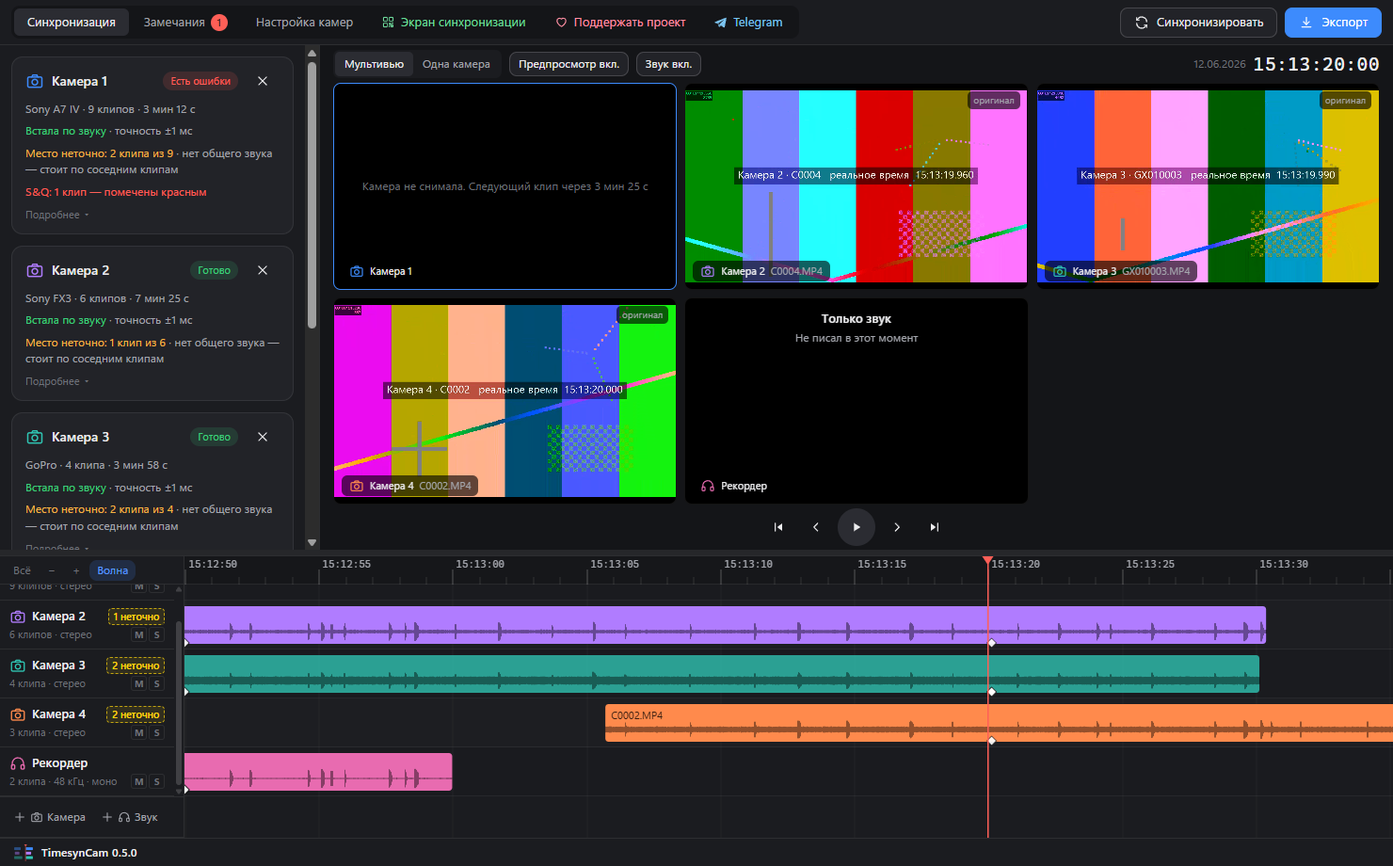
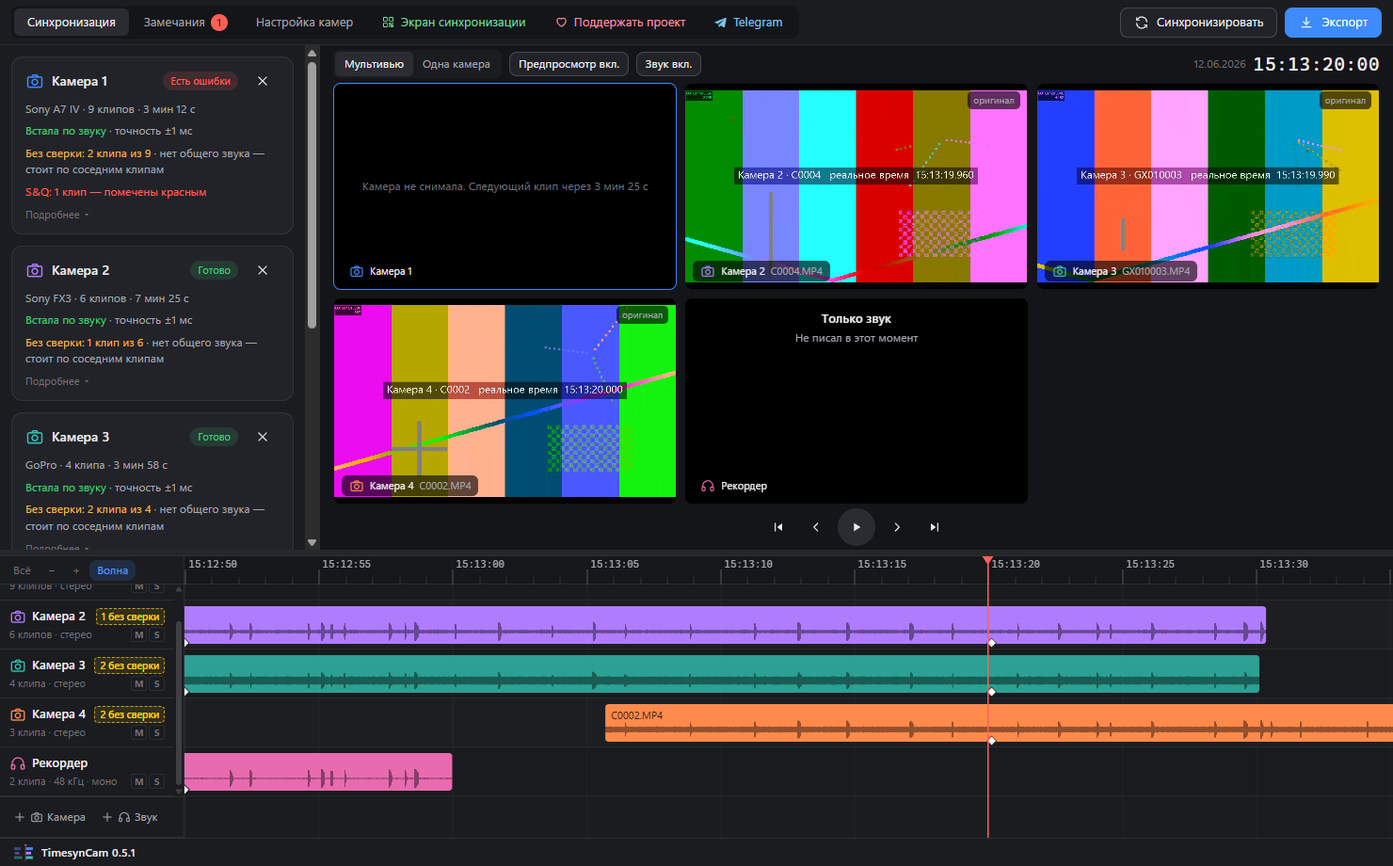
TimesynCam 0.5.1: «без сверки» вместо «неточно», короткие записи со слабым звуком, разложение камер по дорожкам
- Пометка клипов, чьё место звук не подтвердил: «N без сверки» у дорожки, «Без сверки: N из M» в карточке,
  в подсказке — что такие клипы обычно стоят верно; клип, сверенный хуже кадра, — «Сверен хуже кадра».
- Версия 0.5.1: CHANGELOG, текст релиза, README (кнопка macOS до сборки dmg — на релиз 0.5.0), новые снимки.

В выпуск также входят: окно «разложить по дорожкам» (986aeef), подсказка про контрольный кадр один раз (986aeef),
голосование коротких окон и время суток без часов-одиночки (40d9cb6).

diff --git a/src/renderer/components/Timeline.tsx b/src/renderer/components/Timeline.tsx
@@ -11,7 +11,7 @@ import { isMac } from '../platform.ts';
 import { WAVE_RATE } from '../../core/audioSync.ts';
 import { driftJobs } from '../../core/driftExport.ts';
 import type { DriftJob } from '../../core/driftExport.ts';
-import { UNSURE_TEXT, unsureDetails, unsureOf } from '../../core/unsure.ts';
+import { unsureDetails, unsureNote, unsureOf } from '../../core/unsure.ts';
 
 const RULER_H = 30;
 const EDGE_PX = 24; // поле до начала и после конца съёмки
@@ -156,7 +156,7 @@ export function Timeline() {
   }, []);
 
   const errorClips = useMemo(() => new Set(issues.filter((i) => i.severity === 'error' && i.clipId).map((i) => i.clipId!)), [issues]);
-  // Клипы с неточным местом: звук его не подтвердил или подтвердил хуже кадра — обведены пунктиром.
+  // Клипы без сверки: звук не подтвердил их место или подтвердил хуже кадра — обведены пунктиром.
   const unsureClips = useMemo(() => (synced ? state.audio?.unsure ?? {} : {}), [synced, state.audio]);
   const unsureByCam = useMemo(() => new Map(state.cameras.map((c) => [c.id, synced ? unsureOf(c, state.audio) : unsureOf(c, null)])), [state.cameras, state.audio, synced]);
   const speedClips = useMemo(() => new Set(state.cameras.flatMap((c) => c.clips.filter((x) => x.captureFps !== null).map((x) => x.id))), [state.cameras]);
@@ -320,7 +320,7 @@ export function Timeline() {
           g.lineWidth = 2;
           g.stroke();
         } else if (unsureClips[p.clipId] && !isSpeed && w > 3) {
-          // Неточное место — пунктир: тёмная подложка и светлая штриховка видны на клипе любого цвета.
+          // Без сверки — пунктир: тёмная подложка и светлая штриховка видны на клипе любого цвета.
           g.save();
           g.lineWidth = 2;
           g.strokeStyle = 'rgba(0,0,0,0.55)';
@@ -437,7 +437,7 @@ export function Timeline() {
     }
   }, [size, viewH, vp, extent, rows, placements, synced, state.playhead, state.selectedClipId, state.audio, state.controlFrames, state.controlIssues, errorClips, unsureClips, speedClips, driftClips, tz, showWaves, waveVersion]);
 
-  // К следующему неточному клипу дорожки: выделить, поставить курсор на начало и показать, если он за краем.
+  // К следующему клипу дорожки без сверки: выделить, поставить курсор на начало и показать, если он за краем.
   const nextUnsure = (cameraId: string) => {
     const ids = new Set(unsureByCam.get(cameraId)?.ids ?? []);
     const list = placements.filter((p) => p.cameraId === cameraId && ids.has(p.clipId)).sort((a, b) => a.start - b.start);
@@ -667,10 +667,10 @@ export function Timeline() {
                 return (
                   <button
                     className="tl-unsure"
-                    title={`Место неточно — ${pluralRu(u.ids.length, 'клип', 'клипа', 'клипов')} (на дорожке обведены пунктиром):\n${unsureDetails(u)}\n\nЩелчок — к следующему такому клипу.`}
+                    title={`Без сверки по звуку — ${pluralRu(u.ids.length, 'клип', 'клипа', 'клипов')} (на дорожке обведены пунктиром). Обычно они стоят верно, по тайм-коду и часам, но звук этого не подтвердил:\n${unsureDetails(u)}\n\nЩелчок — к следующему такому клипу.`}
                     onClick={(e) => { e.stopPropagation(); nextUnsure(r.cam.id); }}
                   >
-                    {u.ids.length} неточно
+                    {u.ids.length} без сверки
                   </button>
                 );
               })()}
@@ -742,7 +742,7 @@ export function Timeline() {
           return (
             <div className="ctx-menu" style={{ left: menu.x, top: menu.y }} role="menu" onMouseDown={(e) => e.stopPropagation()}>
               <div className="ctx-title">{clip.name}</div>
-              {unsureClips[clip.id] && <div className="ctx-note">Место неточно: {UNSURE_TEXT[unsureClips[clip.id]]}</div>}
+              {unsureClips[clip.id] && <div className="ctx-note">{unsureNote(unsureClips[clip.id])}</div>}
               <button role="menuitem" className="ctx-item" onClick={() => { markControl(menu.cameraId, menu.clipId, menu.localSec); setMenu(null); }}>
                 {state.controlFrames[clip.id] ? 'Перенести контрольный кадр сюда' : 'Выбрать контрольным кадром'}
                 <span className="ctx-hint">здесь в кадре экран синхронизации</span>

diff --git a/src/renderer/components/FaqPage.tsx b/src/renderer/components/FaqPage.tsx
@@ -59,7 +59,7 @@ export function FaqPage() {
             <li><b>Точки зацепки.</b> Там, где клипы двух камер идут одновременно, программа сравнивает звук и находит сдвиг. Первая точка задаёт поправку для своего клипа и всех следующих. Следующая точка сверяет кадр: если расходится больше чем на пару кадров, поправка меняется с её клипа и дальше, а предыдущие клипы остаются как были.</li>
             <li><b>Камеры без тайм-кода</b> (GoPro, телефоны) у каждого клипа ошибаются по-своему, поэтому каждый клип с общим звуком получает свою поправку.</li>
             <li><b>Камера со сбитыми часами.</b> Если рядом по времени общего звука нет, программа ищет звук камеры по всей записи других камер — так находятся камеры с неверным часовым поясом или часами, ушедшими на минуты.</li>
-            <li><b>Неточные клипы</b> обведены жёлтым пунктиром, у дорожки — их число: звук не подтвердил место клипа (нет общего звука, звук не нашёл место) или подтвердил хуже кадра. Щелчок по числу ведёт к следующему, причина — в меню клипа.</li>
+            <li><b>Клипы без сверки</b> обведены жёлтым пунктиром, у дорожки — их число: звук не подтвердил место клипа (нет общего звука, звук не нашёл место) или подтвердил хуже кадра. Обычно такие клипы стоят верно — по тайм-коду и часам, — но программа это не проверила. Щелчок по числу ведёт к следующему, причина — в меню клипа.</li>
             <li><b>Камеры с точным тайм-кодом</b> по звуку не сдвигаются — только сверяются. Расхождение обычно означает, что камеры стояли далеко: звук идёт около 340 м/с.</li>
             <li><b>Рекордер.</b> Длинная запись сверяется в нескольких местах — примерно раз в 10 минут. Не сопоставилось — программа пробует следующее место; хватает и одного видеофайла с хорошим совпадением. Часы рекордера за час штатно расходятся с камерами на десятые доли секунды — это учитывается как допуск, а не как ошибка, и запись встаёт по своей середине.</li>
           </ul>

diff --git a/src/core/unsure.ts b/src/core/unsure.ts
@@ -1,5 +1,6 @@
-// Клипы, чьё место неточно: звук его не подтвердил или подтвердил с точностью хуже кадра.
-// На таймлинии они обведены пунктиром, на дорожке и в карточке — их число.
+// Клипы без сверки: звук не подтвердил их место или подтвердил с точностью хуже кадра. Обычно они стоят верно —
+// по тайм-коду и часам, — но программа это не проверила. На таймлинии они обведены пунктиром, на дорожке и в карточке —
+// их число.
 import type { AudioSyncResult, UnsureReason } from './audioSync.ts';
 import type { Camera } from './types.ts';
 import { pluralRu } from './format.ts';
@@ -27,6 +28,11 @@ export function unsureOf(cam: Camera, audio: AudioSyncResult | null | undefined)
   const counts = new Map<UnsureReason, number>();
   for (const id of ids) counts.set(map[id], (counts.get(map[id]) ?? 0) + 1);
   return { ids, byReason: ORDER.filter((r) => counts.has(r)).map((reason) => ({ reason, count: counts.get(reason)! })) };
+}
+
+// Строка для меню клипа: почему он без сверки.
+export function unsureNote(reason: UnsureReason): string {
+  return reason === 'rough' ? 'Сверен хуже кадра: место найдено по звуку, но совпадение нечёткое (эхо, далёкий микрофон)' : `Без сверки: ${UNSURE_TEXT[reason]}`;
 }
 
 // «3 клипа: 2 — нет общего звука…, 1 — точность хуже кадра» — для подсказки.

diff --git a/src/renderer/components/CameraPanel.tsx b/src/renderer/components/CameraPanel.tsx
@@ -165,7 +165,7 @@ function CameraCard({ cam, index }: { cam: Camera; index: number }) {
   const brief = qt ?? (at ? { title: placedBySound && at.tone !== 'warn' ? 'Встала по звуку' : at.title, sub: accText, tone: at.tone } : synced ? { title: ts.title, sub: undefined, tone: undefined } : null);
   // Ход часов выравнивается при экспорте: на таймлинии такие записи заштрихованы снизу.
   const drift = synced && info.audioOnly ? state.audio?.drift?.find((d) => d.cameraId === cam.id && d.apply) : undefined;
-  // Клипы с неточным местом — на дорожке они обведены пунктиром.
+  // Клипы без сверки по звуку — на дорожке они обведены пунктиром.
   const unsure = synced ? unsureOf(cam, state.audio) : null;
   const toneColor = (tone?: 'warn' | 'ok') => (tone === 'warn' ? 'var(--warning)' : tone === 'ok' ? 'var(--success)' : undefined);
 
@@ -243,7 +243,7 @@ function CameraCard({ cam, index }: { cam: Camera; index: number }) {
           )}
           {unsure && unsure.ids.length > 0 && (
             <div className="card-line" style={{ color: 'var(--warning)' }} title={unsureDetails(unsure)}>
-              Место неточно: {pluralRu(unsure.ids.length, 'клип', 'клипа', 'клипов')} из {info.count - info.excluded}
+              Без сверки: {pluralRu(unsure.ids.length, 'клип', 'клипа', 'клипов')} из {info.count - info.excluded}
               <span className="muted"> · {unsure.byReason.length === 1 ? UNSURE_TEXT[unsure.byReason[0].reason] : 'на дорожке обведены пунктиром'}</span>
             </div>
           )}

diff --git a/src/renderer/styles.css b/src/renderer/styles.css
@@ -227,7 +227,7 @@ button, input, select { font: inherit; color: inherit; }
 .tl-head .t { font-weight: 600; display: flex; align-items: center; gap: 6px; }
 .tl-head .s { color: var(--text-3); font-size: 11px; white-space: nowrap; overflow: hidden; text-overflow: ellipsis; }
 .tl-head .t .name { min-width: 0; overflow: hidden; text-overflow: ellipsis; white-space: nowrap; }
-/* Число клипов с неточным местом — жёлтый пунктир, как их рамка на дорожке; щелчок — к следующему. */
+/* Число клипов без сверки — жёлтый пунктир, как их рамка на дорожке; щелчок — к следующему. */
 .tl-unsure { margin-left: auto; flex: none; font: inherit; font-size: 10.5px; font-weight: 600; color: #ffd60a; background: rgba(255, 214, 10, 0.1); border: 1px dashed rgba(255, 214, 10, 0.7); border-radius: 4px; padding: 0 5px; line-height: 16px; cursor: pointer; }
 .tl-unsure:hover { background: rgba(255, 214, 10, 0.2); }
 .tl-mix { display: inline-flex; gap: 2px; flex: none; }

diff --git a/src/core/align.ts b/src/core/align.ts
@@ -1479,7 +1479,7 @@ export async function alignByAudio(cameras: Camera[], coarse: SyncResult, audio:
 
   for (const p of pieces) log(`место ${p.cameraId}#${p.id}: ${placed.has(p.id) ? `поправка ${(placed.get(p.id)! - p.prior).toFixed(3)} с` : 'по звуку не найдено'}`);
 
-  // Клипы, чьё место неточно: звук его не подтвердил или подтвердил с точностью хуже кадра. На таймлинии
+  // Клипы без сверки: звук не подтвердил их место или подтвердил с точностью хуже кадра. На таймлинии
   // такие клипы помечены, на дорожке — их число. Опорные камеры, клипы с жёсткой опорой (контрольный кадр,
   // тайм-код, отмеченный точным, общий тайм-код) и камеры, которым сверка по звуку отключена, не помечаются.
   const unsure: Record<string, UnsureReason> = {};

diff --git a/test/export-options.test.ts b/test/export-options.test.ts
@@ -28,7 +28,7 @@ test('Опции экспорта: проблемные — ненайденны
   const { cams, a1, a2, b1, wav } = scene();
   const audio = audioWith({ [a1.id]: 'neighbours', [a2.id]: 'rough', [b1.id]: 'not-found', [wav.id]: 'no-sound' });
   const p = problemClips(cams, audio);
-  // У «Звука» все клипы неточны и звука нет — его место ничем не подтверждено.
+  // У «Звука» все клипы без сверки и звука нет — его место ничем не подтверждено.
   assert.deepEqual([...p].sort(), [b1.id, wav.id].sort());
   // Клип без звука у камеры, другие клипы которой найдены, — не проблемный.
   assert.deepEqual([...problemClips(cams, audioWith({ [a1.id]: 'no-sound' }))], []);

diff --git a/src/core/audioSync.ts b/src/core/audioSync.ts
@@ -251,7 +251,7 @@ export interface DriftEstimate {
   apply: boolean; // оценка надёжна и расхождение заметно — при экспорте звук выравнивается
 }
 
-// Почему место клипа неточно.
+// Почему клип без сверки: звук не подтвердил его место или подтвердил хуже кадра.
 export type UnsureReason =
   | 'no-sound' // в клипе нет звука — стоит по тайм-коду и часам своего устройства
   | 'neighbours' // своего общего звука нет — стоит по соседним клипам того же устройства

diff --git a/README.md b/README.md
@@ -10,14 +10,14 @@
 </p>
 
 <p align="center">
-  <a href="https://github.com/agrebru-glitch/timesyncam/releases/download/v0.5.0/TimesynCam-Setup-0.5.0.exe"><img src="docs/images/download-windows.svg" width="300" height="68" alt="Скачать для Windows"></a>
+  <a href="https://github.com/agrebru-glitch/timesyncam/releases/download/v0.5.1/TimesynCam-Setup-0.5.1.exe"><img src="docs/images/download-windows.svg" width="300" height="68" alt="Скачать для Windows"></a>
   &nbsp;
-  <a href="https://github.com/agrebru-glitch/timesyncam/releases/download/v0.5.0/TimesynCam-0.5.0-mac-arm64.dmg"><img src="docs/images/download-macos.svg" width="300" height="68" alt="Скачать для macOS"></a>
+  <a href="https://github.com/agrebru-glitch/timesyncam/releases/tag/v0.5.0"><img src="docs/images/download-macos.svg" width="300" height="68" alt="Скачать для macOS"></a>
 </p>
 
 <p align="center">
   <a href="https://github.com/agrebru-glitch/timesyncam/releases/download/v0.4.0/TCoder-0.4.0.apk">TCoder — экран синхронизации на Android</a> ·
-  <a href="https://github.com/agrebru-glitch/timesyncam/releases/download/v0.5.0/TimesynCam-0.5.0-win-x64.zip">Windows без установки (zip)</a> ·
+  <a href="https://github.com/agrebru-glitch/timesyncam/releases/download/v0.5.1/TimesynCam-0.5.1-win-x64.zip">Windows без установки (zip)</a> ·
   <a href="https://github.com/agrebru-glitch/timesyncam/releases">Все версии</a>
 </p>
 
@@ -49,7 +49,7 @@ TimesynCam делает эту работу за вас. Перетащите п
 - **Рекордер.** Длинная запись рекордера сверяется в нескольких местах, штатный ход его часов учитывается как допуск, а не как ошибка.
 - **Волна звука на клипах.** Приблизьте таймлинию — хлопки разных камер встанут на одну вертикаль, стыковку видно глазами.
 - **Звук в предпросмотре.** При проигрывании звучат все дорожки сразу, каждая на своём месте с точностью до сэмпла: совпавшие записи звучат как одна, разошедшиеся — эхом. Кнопки M и S у названия дорожки выключают её звук или оставляют только её.
-- **Неточные клипы помечены.** Клип, чьё место звук не подтвердил (нет общего звука с другими записями, звук не нашёл место) или подтвердил хуже кадра, обведён жёлтым пунктиром, у дорожки — число таких клипов. Щелчок по числу ведёт к следующему.
+- **Клипы без сверки помечены.** Клип, чьё место звук не подтвердил (нет общего звука с другими записями, звук не нашёл место) или подтвердил хуже кадра, обведён жёлтым пунктиром, у дорожки — число таких клипов. Обычно они стоят верно, по тайм-коду и часам, — пометка значит лишь, что звук этого не подтвердил. Щелчок по числу ведёт к следующему.
 - **Мультивью и одна камера.** Экранов ровно столько, сколько камер. Без прокси клипы показываются стоп-кадрами, у рекордера вместо видео — волна звука вокруг курсора. Предпросмотр можно выключить — на слабом ноутбуке программа станет легче.
 - **Удаление клипа с таймлинии** — правой кнопкой по клипу или клавишей Delete (на Mac — ⌫). Файл на диске остаётся, вернуть клип можно в карточке камеры.
 - **Понятные ошибки.** Клипы S&Q подсвечиваются красным, их можно убрать с таймлинии одной кнопкой. Смена разрешения и частоты кадров внутри камеры — норма, программа на неё не ругается.

diff --git a/.github/release-notes/v0.5.1.md b/.github/release-notes/v0.5.1.md
@@ -1,0 +1,27 @@
+Короткие записи со слабым звуком находят своё место, клипы разных камер раскладываются по дорожкам. Версия для Mac появится здесь чуть позже.
+
+## Сверка по звуку
+
+- **Короткая запись со слабым общим звуком находится.** Камера, снявшая минуту издалека, слышит площадку тихо, и проверка окнами по 20 секунд её не подтверждала: окон слишком мало, и каждое по отдельности нечёткое. Теперь в таком случае голосуют короткие окна вокруг найденного места — совпадение принимается, когда многие сошлись с точностью до 30 мс и случайно так не бывает. На футбольном матче камера с часами на 8,5 минуты позади встала по звуку точно, а заодно на место встали два клипа DJI, бывшие на 0,6–0,7 с мимо.
+- **Время суток не уезжает из-за одной камеры.** Камера, чьи часы ушли намного дальше остальных, больше не сдвигает время суток всей съёмки.
+
+## Интерфейс
+
+- **Клипы разных камер на одной дорожке.** Если на дорожку попали клипы нескольких камер, программа предложит разложить их по своим дорожкам — согласиться или оставить как есть решаете вы.
+- **«Без сверки» вместо «неточно».** Клипы, чьё место звук не подтвердил, обычно стоят верно — по тайм-коду и часам; пометка теперь так и называется.
+- **Подсказка про контрольный кадр** появляется один раз за запуск — когда клипы легли на третью дорожку.
+
+## Скачать
+
+| | |
+|---|---|
+| **Windows** | `TimesynCam-Setup-0.5.1.exe` — установщик, `TimesynCam-0.5.1-win-x64.zip` — без установки |
+| **macOS (Apple Silicon)** | `TimesynCam-0.5.1-mac-arm64.dmg` — появится здесь после сборки на Mac |
+
+**Первый запуск в Windows.** Если появится «Система Windows защитила ваш компьютер» — «Подробнее» → «Выполнить в любом случае».
+
+**TCoder** не менялся — последняя версия лежит в [релизе 0.4.0](https://github.com/agrebru-glitch/timesyncam/releases/tag/v0.4.0).
+
+## Поддержать проект
+
+Программа бесплатная. Если она экономит вам время на монтаже — [поддержите проект через CloudTips](https://pay.cloudtips.ru/p/17376eab).
